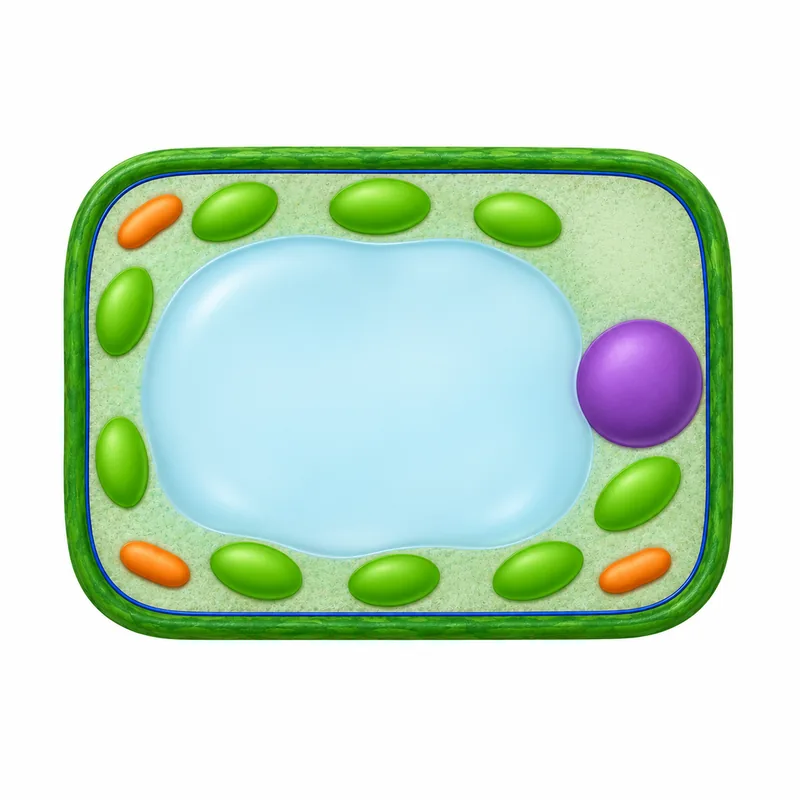
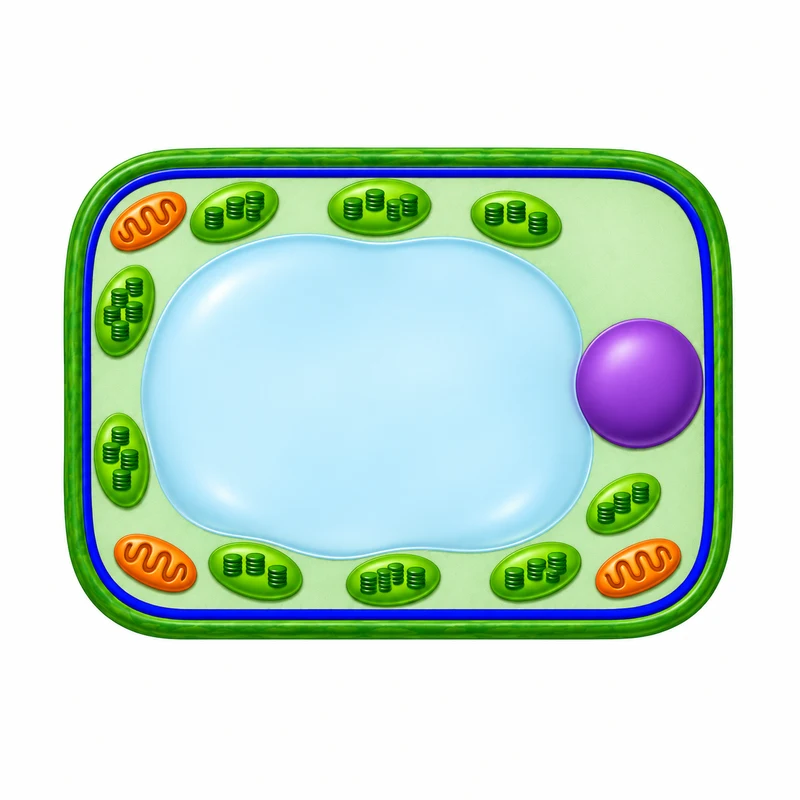
Vetting batch C: Unit 3 cell items + new plant-cell art (R-U3-01)
Apply batch C (vetting-2026-11-12c), all 9 items, each changing only the fields
given:
- U3-06, U3-07 (match): "aerobic respiration" / "most of the cell's reactions";
  whys now name the two spare descriptions. Pairs order and extras unchanged.
- U3-73 (multi): options 2 and 3 reworded to match; a unchanged.
- U3-05 (match): "typical diagram"; vacuole described as a sac of cell sap.
- U3-72 (multi): option 1 "aerobic respiration"; fuller why.
- U3-74 (multi): stem names a leaf cell; option 4 "containing cell sap".
- U3-75 (multi): now six options (the repeated chain line removed), a [0,1,2].
- R-U3-01 (plant cell): new art (webp) with mitochondria folds and chloroplast
  disc-stacks and a thick deep-blue membrane; hotspots re-measured (same ids and
  labels); U3-D16 and PQ2-U3-91 whys updated to describe the new art.
- MT-U3-01 (multi): option 2 "Plant leaf cells contain chloroplasts ..."; why
  matches; answer unchanged.

(The source PNG R-U3-01-plant-cell-v2.png was archived to picture-art-incoming,
outside the repo, so it is not part of this commit.)

323/323 tests pass (em-dash guard, why-letters, recall, unit-figures and the
figure checks all pass); content lint clean with only the two baseline entries
(U3-D21, PQ-U5-07). Browser-checked at 390 px in light and dark: U3-D16 all seven
markers on distinct structures (wall on the left band, membrane on the bottom
layer, clearly separate), mitochondria folds and chloroplast stacks visible;
[…]

Changed region(s): [[0.0625, 0.1562, 0.9375, 0.8125]]

diff --git a/src/content/marine-science.jsx b/src/content/marine-science.jsx
@@ -984,14 +984,14 @@ const ITEMS = [
     why: "Bacteria have a cell wall, a cell membrane and cytoplasm: that is all from this list. They have no nucleus (their genetic material floats free), no mitochondria and no chloroplast. Not every cell has a nucleus, and a bacterium is not a tiny plant, so it has no chloroplast. 3.1/LO2." },
   { id: "U3-06", topic: "u3-cells", type: "match", tier: 1, ref: "3.1/LO4",
     q: "Match each cell structure to its function.",
-    pairs: [["nucleus", "contains the genetic material and controls the activities of the cell"], ["mitochondria", "where respiration releases energy for the cell"], ["chloroplast", "absorbs light energy for photosynthesis"], ["cell membrane", "controls which substances enter and leave the cell"]],
+    pairs: [["nucleus", "contains the genetic material and controls the activities of the cell"], ["mitochondria", "where aerobic respiration releases energy for the cell"], ["chloroplast", "absorbs light energy for photosynthesis"], ["cell membrane", "controls which substances enter and leave the cell"]],
     extra: ["stores water and dissolved substances as cell sap", "supports the cell and stops it bursting when water enters"],
-    why: "The nucleus holds the genetic material and controls the cell. Mitochondria release energy by respiration. Chloroplasts absorb light for photosynthesis. The cell membrane controls what goes in and out. Watch the common mix-up: it is the mitochondria, not the nucleus, that supply the cell's energy. 3.1/LO4." },
+    why: "The nucleus holds the genetic material and controls the cell. Mitochondria are where aerobic respiration releases energy. Chloroplasts absorb light for photosynthesis. The cell membrane controls what goes in and out. Watch the common mix-up: it is the mitochondria, not the nucleus, that supply the cell's energy. The two spare descriptions belong to structures not in this list: storing cell sap is the job of the vacuole, and supporting the cell so it does not burst is the job of the cell wall. 3.1/LO4." },
   { id: "U3-07", topic: "u3-cells", type: "match", tier: 1, ref: "3.1/LO4",
     q: "Match each cell structure to its function.",
-    pairs: [["cell wall", "supports the cell and stops it bursting when water enters"], ["vacuole", "stores water and dissolved substances (cell sap)"], ["cytoplasm", "where the chemical reactions of the cell take place"]],
+    pairs: [["cell wall", "supports the cell and stops it bursting when water enters"], ["vacuole", "stores water and dissolved substances (cell sap)"], ["cytoplasm", "where most of the cell's chemical reactions take place"]],
     extra: ["controls which substances enter and leave the cell", "captures light energy for photosynthesis to make food"],
-    why: "The cell wall supports the cell and stops it bursting when water comes in. The vacuole stores water and dissolved substances (cell sap). The cytoplasm is where the cell's chemical reactions happen. Don't give the wall the membrane's job: the wall supports the cell, it doesn't control what enters. 3.1/LO4." },
+    why: "The cell wall supports the cell and stops it bursting when water comes in. The vacuole stores water and dissolved substances (cell sap). The cytoplasm is where most of the cell's chemical reactions happen. The two spare descriptions belong to structures not in this list: controlling what enters and leaves is the job of the cell membrane, and capturing light for photosynthesis is the job of the chloroplast. Don't give the wall the membrane's job: the wall supports the cell, it doesn't control what enters. 3.1/LO4." },
   { id: "U3-02", topic: "u3-cells", type: "choice", tier: 2, ref: "3.1/LO1",
     q: "A student writes: \"Plant cells have a cell wall instead of a cell membrane.\" Why is this wrong?",
     options: ["Plant cells have both: the cell wall lies outside the cell membrane.", "Plant cells have both, but the cell membrane is part of the cell wall: they are one structure.", "Plant cells have both, but it is the cell wall, not the membrane, that controls what enters and leaves the cell.", "Plant cells have both, but the cell wall lies inside the cell membrane."],
@@ -1003,10 +1003,10 @@ const ITEMS = [
     a: 0,
     why: "Both plant and bacterial cells have a wall, a membrane and cytoplasm, so none of those can tell them apart. Only the plant cell has a nucleus, so spotting one proves it is a plant cell. The cell wall does not help: bacteria have one too, so a wall does not mean 'plant'. 3.1/LO2." },
   { id: "U3-05", topic: "u3-cells", type: "match", tier: 2, ref: "3.1/LO3",
-    q: "Match each cell structure to how it appears in a labelled diagram of a plant cell.",
-    pairs: [["cell wall", "the thick outer boundary drawn around the whole cell"], ["cell membrane", "the thin line just inside the wall, enclosing the cytoplasm"], ["nucleus", "the single large rounded structure inside the cytoplasm"], ["chloroplast", "the small green oval structures scattered through the cytoplasm"], ["vacuole", "the large clear space, filled with liquid, in the middle of the cell"]],
+    q: "Match each cell structure to how it appears in a typical diagram of a plant cell.",
+    pairs: [["cell wall", "the thick outer boundary drawn around the whole cell"], ["cell membrane", "the thin line just inside the wall, enclosing the cytoplasm"], ["nucleus", "the single large rounded structure inside the cytoplasm"], ["chloroplast", "the small green oval structures scattered through the cytoplasm"], ["vacuole", "the large fluid-filled sac taking up most of the middle of the cell"]],
     extra: ["the small rod-shaped structures scattered through the cytoplasm", "the thin line drawn around the outside of the cell wall"],
-    why: "You find each part by where it sits and what it looks like. The cell wall is the thick outer edge; the membrane is the thin line just inside it; the nucleus is the one big round blob; chloroplasts are the small green ovals dotted about; and the vacuole is the large clear liquid-filled space in the middle. There is no line outside the wall: the membrane is inside it, not around it. The small rod shapes are mitochondria, not chloroplasts. 3.1/LO3." },
+    why: "You find each part by where it sits and what it looks like. The cell wall is the thick outer edge; the membrane is the thin line just inside it; the nucleus is the one large rounded structure; chloroplasts are the small green ovals dotted about; and the vacuole is the large sac of liquid (cell sap) taking up most of the middle. There is no line outside the wall: the membrane is inside it, not around it. The small rod shapes are mitochondria, which are not in this list. 3.1/LO3." },
   { id: "U3-08", topic: "u3-cells", type: "choice", tier: 2, ref: "3.1/LO4", family: "u3-mitochondria-count",
     q: "Muscle cells in the tail of a tuna contain far more mitochondria than its skin cells do. What does this tell you about the muscle cells?",
     options: ["They release more energy by respiration than the skin cells do.", "They carry out more photosynthesis than the skin cells do.", "They contain more genetic material than the skin cells.", "They let more substances in and out than the skin cells do."],
@@ -1014,24 +1014,24 @@ const ITEMS = [
     why: "Mitochondria are where respiration releases energy, so more mitochondria means more energy released. That is why the muscle cells outdo the skin cells. They are not doing photosynthesis (that needs chloroplasts), not holding more genetic material (that is the nucleus), and not controlling what enters (that is the membrane). 3.1/LO4." },
   { id: "U3-72", topic: "u3-cells", type: "multi", tier: 2, ref: "3.1/LO4",
     q: "A plant cell has several structures that keep it alive and let it make food. Tick the statements that are true.",
-    options: ["The chloroplasts absorb light so that the cell can photosynthesise to make food.", "The mitochondria carry out respiration, which releases energy for the cell to use.", "The nucleus contains the genetic material and controls the activities of the cell.", "The cell membrane controls which substances enter and leave the cell.", "The cell wall supports the cell and stops it bursting.", "The vacuole stores water and dissolved substances (cell sap).", "The mitochondria make food for the cell by trapping light.", "The cell wall controls which substances enter and leave the cell.", "The nucleus releases the energy that powers the cell."],
+    options: ["The chloroplasts absorb light so that the cell can photosynthesise to make food.", "The mitochondria carry out aerobic respiration, which releases energy for the cell to use.", "The nucleus contains the genetic material and controls the activities of the cell.", "The cell membrane controls which substances enter and leave the cell.", "The cell wall supports the cell and stops it bursting.", "The vacuole stores water and dissolved substances (cell sap).", "The mitochondria make food for the cell by trapping light.", "The cell wall controls which substances enter and leave the cell.", "The nucleus releases the energy that powers the cell."],
     a: [0, 1, 2, 3, 4, 5],
-    why: "Each part links to its job: chloroplasts absorb light for photosynthesis (making food), mitochondria release energy by respiration, the nucleus holds the genetic material and controls the cell, the membrane controls what enters and leaves, the wall supports the cell and stops it bursting, and the vacuole stores cell sap. Mitochondria do not make food, the wall does not control entry, and the nucleus does not release energy." },
+    why: "Each part links to its job: chloroplasts absorb light for photosynthesis (making food), mitochondria release energy by aerobic respiration, the nucleus holds the genetic material and controls the cell, the membrane controls what enters and leaves, the wall supports the cell and stops it bursting, and the vacuole stores cell sap. Mitochondria do not make food: trapping light to make food is the job of the chloroplasts. The wall does not control entry: substances pass through it freely, and it is the membrane inside it that controls them. And the nucleus does not release energy: that happens by respiration in the mitochondria." },
   { id: "U3-73", topic: "u3-cells", type: "multi", tier: 2, ref: "3.1/LO4",
     q: "An animal cell has several structures that carry out its functions. Tick the statements that are true.",
-    options: ["The nucleus contains the genetic material and controls the activities of the cell.", "The cell membrane controls which substances enter and leave the cell.", "The cytoplasm is where the chemical reactions of the cell take place.", "The mitochondria carry out respiration, which releases energy for the cell to use.", "The chloroplasts absorb light so that the animal cell can photosynthesise.", "The cell wall supports the animal cell and stops it bursting.", "The mitochondria make food for the cell."],
+    options: ["The nucleus contains the genetic material and controls the activities of the cell.", "The cell membrane controls which substances enter and leave the cell.", "The cytoplasm is where most of the cell's chemical reactions take place.", "The mitochondria carry out aerobic respiration, which releases energy for the cell to use.", "The chloroplasts absorb light so that the animal cell can photosynthesise.", "The cell wall supports the animal cell and stops it bursting.", "The mitochondria make food for the cell."],
     a: [0, 1, 2, 3],
-    why: "An animal cell has only a nucleus, membrane, cytoplasm and mitochondria from this list. The nucleus controls the cell and holds the genetic material, the membrane controls what enters and leaves, the cytoplasm is where reactions happen, and the mitochondria release energy by respiration. Chloroplasts and a cell wall are plant-only, and mitochondria do not make food." },
+    why: "An animal cell has only a nucleus, membrane, cytoplasm and mitochondria from this list. The nucleus controls the cell and holds the genetic material, the membrane controls what enters and leaves, the cytoplasm is where most of the cell's reactions happen, and the mitochondria release energy by aerobic respiration. Chloroplasts and a cell wall are found in plant cells, not animal cells, and mitochondria do not make food: food is made by photosynthesis in chloroplasts." },
   { id: "U3-74", topic: "u3-cells", type: "multi", tier: 2, ref: "3.1/LO1", family: "u3-plant-only-structures",
-    q: "A plant cell differs from an animal cell. Tick the statements that are true.",
-    options: ["A plant cell has a cell wall outside its membrane, but an animal cell has no cell wall.", "The cell wall supports the plant cell and stops it bursting.", "A plant cell has chloroplasts, but an animal cell has none.", "The chloroplasts let the plant cell photosynthesise to make its own food.", "A plant cell has a large permanent vacuole that stores water and cell sap.", "A plant cell has a cell wall in place of the cell membrane that an animal cell has.", "An animal cell has more mitochondria because plant cells cannot respire.", "The cell wall lies inside the cell membrane of the plant cell."],
+    q: "A typical plant cell, such as a leaf cell, differs from an animal cell. Tick the statements that are true.",
+    options: ["A plant cell has a cell wall outside its membrane, but an animal cell has no cell wall.", "The cell wall supports the plant cell and stops it bursting.", "A plant cell has chloroplasts, but an animal cell has none.", "The chloroplasts let the plant cell photosynthesise to make its own food.", "A plant cell has a large permanent vacuole containing cell sap.", "A plant cell has a cell wall in place of the cell membrane that an animal cell has.", "An animal cell has more mitochondria because plant cells cannot respire.", "The cell wall lies inside the cell membrane of the plant cell."],
     a: [0,1,2,3,4],
-    why: "A plant cell has three structures an animal cell lacks: a cell wall outside the membrane (supports it, stops it bursting), chloroplasts (make food by photosynthesis), and a large permanent vacuole (stores cell sap). The wall is an extra layer, not a replacement for the membrane. It sits outside the membrane, not inside. And plant cells respire too, so animal cells do not have extra mitochondria for that reason. 3.1/LO1." },
+    why: "A typical plant cell, such as a leaf cell, has three structures an animal cell lacks: a cell wall outside the membrane (supports it, stops it bursting), chloroplasts (make food by photosynthesis), and a large permanent vacuole (contains cell sap). Not every plant cell has chloroplasts: root cells, for example, get no light. The wall is an extra layer, not a replacement for the membrane, and it sits outside the membrane, not inside. And plant cells respire too, so animal cells do not have extra mitochondria for that reason. 3.1/LO1." },
   { id: "U3-75", topic: "u3-cells", type: "multi", tier: 2, ref: "3.1/LO4", family: "u3-mitochondria-count",
     q: "A muscle cell that makes a fish swim contains very large numbers of mitochondria. Tick the statements that are true.",
-    options: ["Mitochondria are the site of respiration.", "Respiration releases energy for the cell to use.", "A swimming muscle cell needs a large amount of energy to contract and move.", "Having many mitochondria means a higher rate of respiration can take place, so the cell can release enough energy to keep the muscle working.", "The mitochondria make food for the cell, so more mitochondria means more food is produced.", "The mitochondria store the energy the cell has made, like a battery.", "The many mitochondria show the cell can photosynthesise to supply its own energy."],
-    a: [0, 1, 2, 3],
-    why: "Mitochondria are where respiration releases energy; a swimming muscle cell needs lots of energy to keep contracting, so having many mitochondria means a high rate of respiration and enough energy to work. Mitochondria do not make food, store energy like a battery, or carry out photosynthesis; they release energy by respiration." },
+    options: ["Mitochondria are the site of aerobic respiration.", "A swimming muscle cell needs a large amount of energy to contract and move.", "Having many mitochondria means a higher rate of respiration can take place, so the cell can release enough energy to keep the muscle working.", "The mitochondria make food for the cell, so more mitochondria means more food is produced.", "The mitochondria store the energy the cell has made, like a battery.", "The many mitochondria show the cell can photosynthesise to supply its own energy."],
+    a: [0, 1, 2],
+    why: "Mitochondria are where aerobic respiration releases energy. A swimming muscle cell needs a lot of energy to keep contracting, so having many mitochondria means a high rate of respiration and enough energy to keep working. Mitochondria do not make food: food is made by photosynthesis, and animal cells cannot photosynthesise at all. They do not store energy like a battery either: they release it from glucose as it is needed." },
   /* ---------------------------------------------- 3.2 Reproduction */
   { id: "U3-09", topic: "u3-repro", type: "choice", tier: 1, ref: "3.2/LO1",
     q: "What is asexual reproduction?",

diff --git a/src/content/unit-figures/figures-unit3.js b/src/content/unit-figures/figures-unit3.js
@@ -67,7 +67,7 @@ export const FIGURE_ITEMS_U3 = [
   { id: "U3-D16", topic: "u3-cells", type: "label", tier: 1, ref: "3.1/LO1 · 3.1/LO3", fig: "R-U3-01",
     q: "Label the seven marked structures of this plant cell.",
     extra: ["flagellum", "silica skeleton"],
-    why: "The thick dark-green outer layer is the cell wall, which supports the cell, and the thin dark-blue line just inside it is the cell membrane, which controls what enters and leaves; a plant cell has both, not a wall instead of a membrane. The large pale-blue central space is the vacuole, which stores cell sap, and the purple rounded body is the nucleus, which contains the genetic material and controls the cell. The green ovals are chloroplasts, which absorb light for photosynthesis, the small orange shapes are mitochondria, where respiration releases energy, and the ground around them is the cytoplasm, where most reactions happen; a flagellum or a silica skeleton belongs to other organisms." },
+    why: "The thick dark-green outer layer is the cell wall, which supports the cell, and the deep-blue layer just inside it is the cell membrane, which controls what enters and leaves; a plant cell has both, not a wall instead of a membrane. The large pale-blue central space is the vacuole, which stores cell sap, and the purple rounded body is the nucleus, which contains the genetic material and controls the cell. The green ovals with stacks of discs inside are chloroplasts, which absorb light for photosynthesis, the orange shapes with folded inner membranes are mitochondria, where aerobic respiration releases energy, and the ground around them is the cytoplasm, where most reactions happen; a flagellum or a silica skeleton belongs to other organisms." },
   { id: "U3-D17", topic: "u3-cells", type: "tap", tier: 1, ref: "3.1/LO3 · 3.1/LO4", fig: "R-U3-01",
     q: "Tap the structure that absorbs light energy for photosynthesis.", target: "chloroplast",
     why: "Chloroplasts are the small green ovals in the cytoplasm, and they absorb light energy for photosynthesis. The nucleus controls the cell, the vacuole stores cell sap, and mitochondria release energy by respiration; none of these absorbs light." },

diff --git a/src/content/unit-figures/figures-r-units1-3.js b/src/content/unit-figures/figures-r-units1-3.js
@@ -54,11 +54,11 @@ export const FIGURES_R13 = {
   // plant cell with all seven 3.1/LO1 structures. Wall marker on the left band, membrane marker on the
   // bottom line (different sides: the two are adjacent), cytoplasm in the clear top-right patch.
   "R-U3-01": { art: IMG("R-U3-01", 800, 800), hotspots: [
-    { id: "cell-wall", x: 74, y: 400, label: "cell wall" },
-    { id: "cell-membrane", x: 468, y: 613, label: "cell membrane" },
-    { id: "cytoplasm", x: 650, y: 228, label: "cytoplasm" },
-    { id: "nucleus", x: 640, y: 383, label: "nucleus" },
-    { id: "chloroplast", x: 380, y: 205, label: "chloroplast" },
+    { id: "cell-wall", x: 72, y: 380, label: "cell wall" },
+    { id: "cell-membrane", x: 465, y: 614, label: "cell membrane" },
+    { id: "cytoplasm", x: 640, y: 250, label: "cytoplasm" },
+    { id: "nucleus", x: 640, y: 385, label: "nucleus" },
+    { id: "chloroplast", x: 380, y: 207, label: "chloroplast" },
     { id: "vacuole", x: 360, y: 395, label: "vacuole" },
     { id: "mitochondrion", x: 153, y: 565, label: "mitochondrion" },
   ] },
@@ -110,7 +110,7 @@ export const FIGURE_ITEMS_R13 = [
   { id: "PQ2-U3-91", topic: "u3-cells", type: "tap", tier: 1, ref: "3.1/LO3 · 3.1/LO4", fig: "R-U3-01",
     q: "Tap the structure that controls which substances enter and leave the cell.",
     target: "cell-membrane",
-    why: "The cell membrane, the thin dark-blue line just inside the cell wall, controls which substances enter and leave the cell. The cell wall outside it supports the cell and stops it bursting, but it does not control what passes through. A plant cell has both a wall and a membrane." },
+    why: "The cell membrane, the deep-blue layer just inside the cell wall, controls which substances enter and leave the cell. The cell wall outside it supports the cell and stops it bursting, but it does not control what passes through. A plant cell has both a wall and a membrane." },
   { id: "PQ2-U3-92", topic: "u3-cells", type: "label", tier: 1, ref: "3.1/LO2 · 3.1/LO3", fig: "R-U3-03",
     q: "Label the three marked structures of this bacterial cell.",
     extra: ["nucleus", "chloroplast"],

diff --git a/src/content/mark-true-bank.js b/src/content/mark-true-bank.js
@@ -114,14 +114,14 @@ export const MARKTRUE = [
     options:[
       "A plant cell has a cell wall; an animal cell does not.",
       "Mitochondria are found in plant cells but not in animal cells.",
-      "Plant cells contain chloroplasts; animal cells do not.",
+      "Plant leaf cells contain chloroplasts; animal cells do not.",
       "A plant cell's wall is inside its cell membrane.",
       "Both plant and animal cells have a nucleus, cytoplasm and cell membrane.",
       "Animal cells have a large permanent vacuole like plant cells.",
       "Chloroplasts absorb light for photosynthesis.",
       "The cell wall controls what enters and leaves the cell." ],
     answer:[0,2,4,6],
-    why:"Both plant and animal cells have a cell membrane, nucleus, cytoplasm and mitochondria. Plant cells also have a cell wall outside the membrane, chloroplasts and a large permanent vacuole. Chloroplasts absorb light for photosynthesis. Animal cells have mitochondria too, because both cell types need them for respiration. The wall is outside the membrane, not inside it. Animal cells do not have a large permanent vacuole. It is the cell membrane that controls what enters and leaves the cell; the wall supports it." },
+    why:"Both plant and animal cells have a cell membrane, nucleus, cytoplasm and mitochondria. Plant cells also have a cell wall outside the membrane and a large permanent vacuole, and leaf cells have chloroplasts, which absorb light for photosynthesis; plant cells that get no light, such as root cells, have none. Animal cells have mitochondria too, because both cell types need them for respiration. The wall is outside the membrane, not inside it. Animal cells do not have a large permanent vacuole. It is the cell membrane that controls what enters and leaves the cell; the wall supports it." },
   { id:"MT-U3-02", unit:3, topic:"3.3 Classification", spec:"3.3/LO1-4", tier:2, type:"multi",
     stem:"Tick the statements that are true about the classification of living things.",
     options:[

diff --git a/public/sw.js b/public/sw.js
@@ -1,6 +1,6 @@
 /* Offline support for Earth and Oceans.
    Bump CACHE when you deploy a new version. */
-const CACHE = "marine-v252";
+const CACHE = "marine-v253";
 
 /* Figures & data photos: cached on install so they also work offline before
    they have been seen once. Relative to this file, like the rest of the app. */
